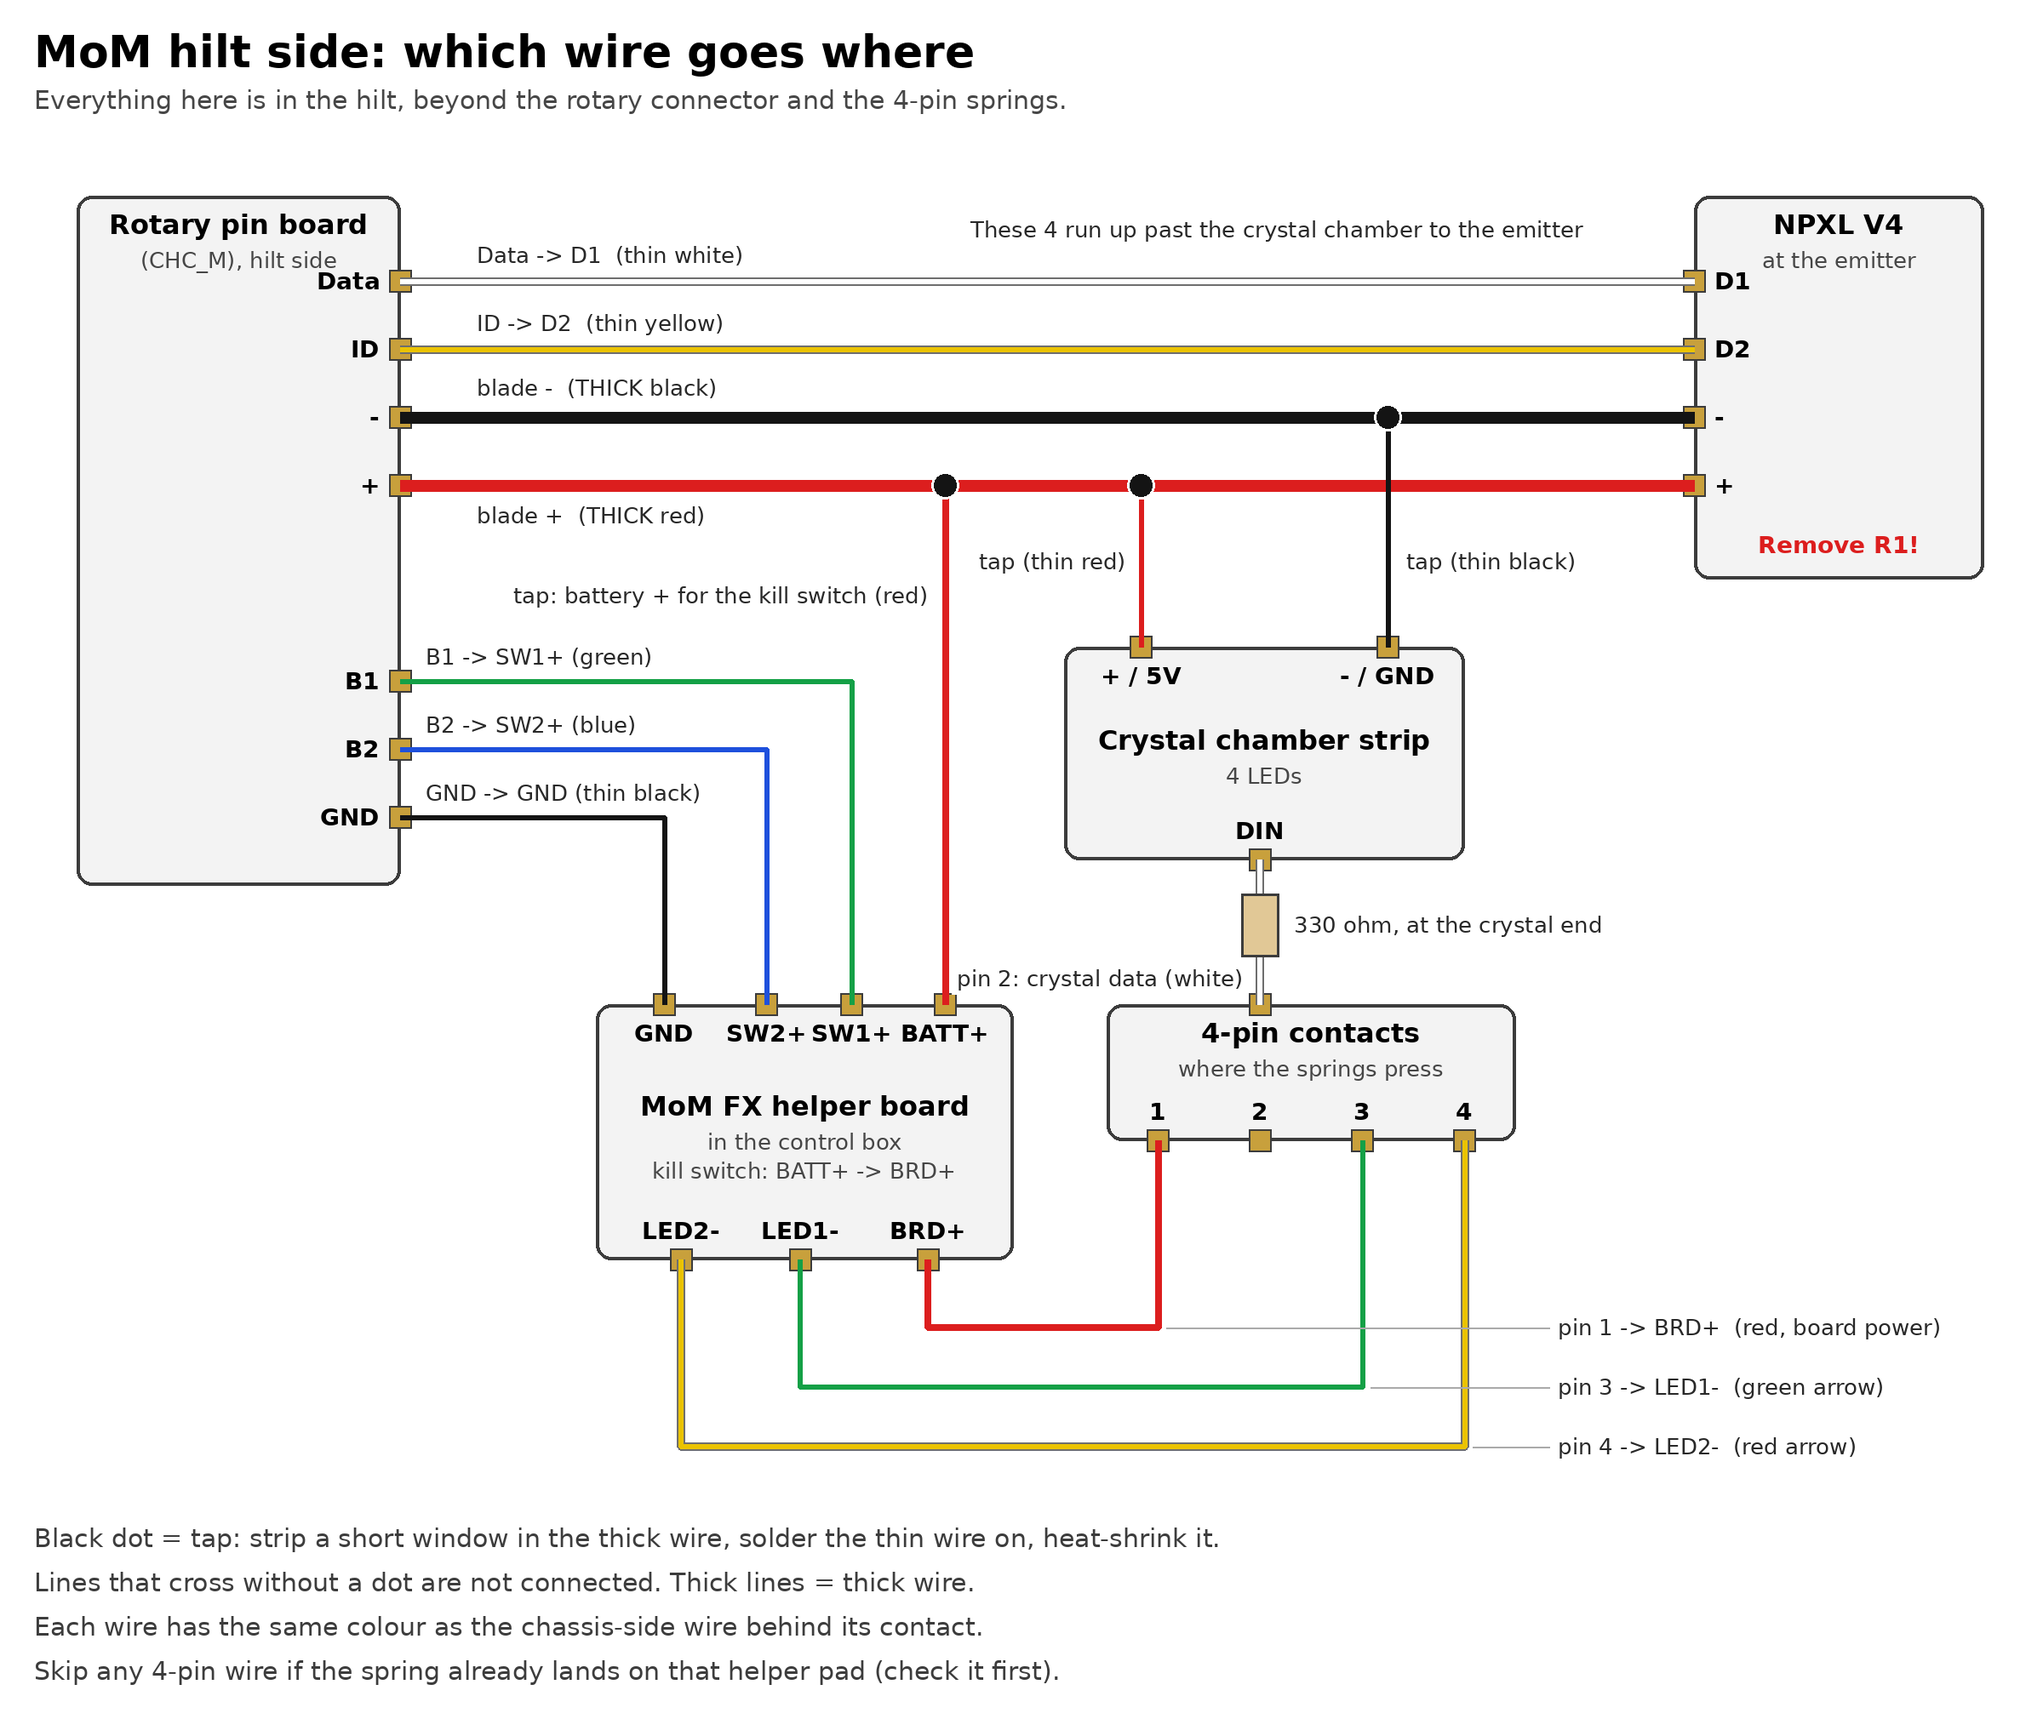
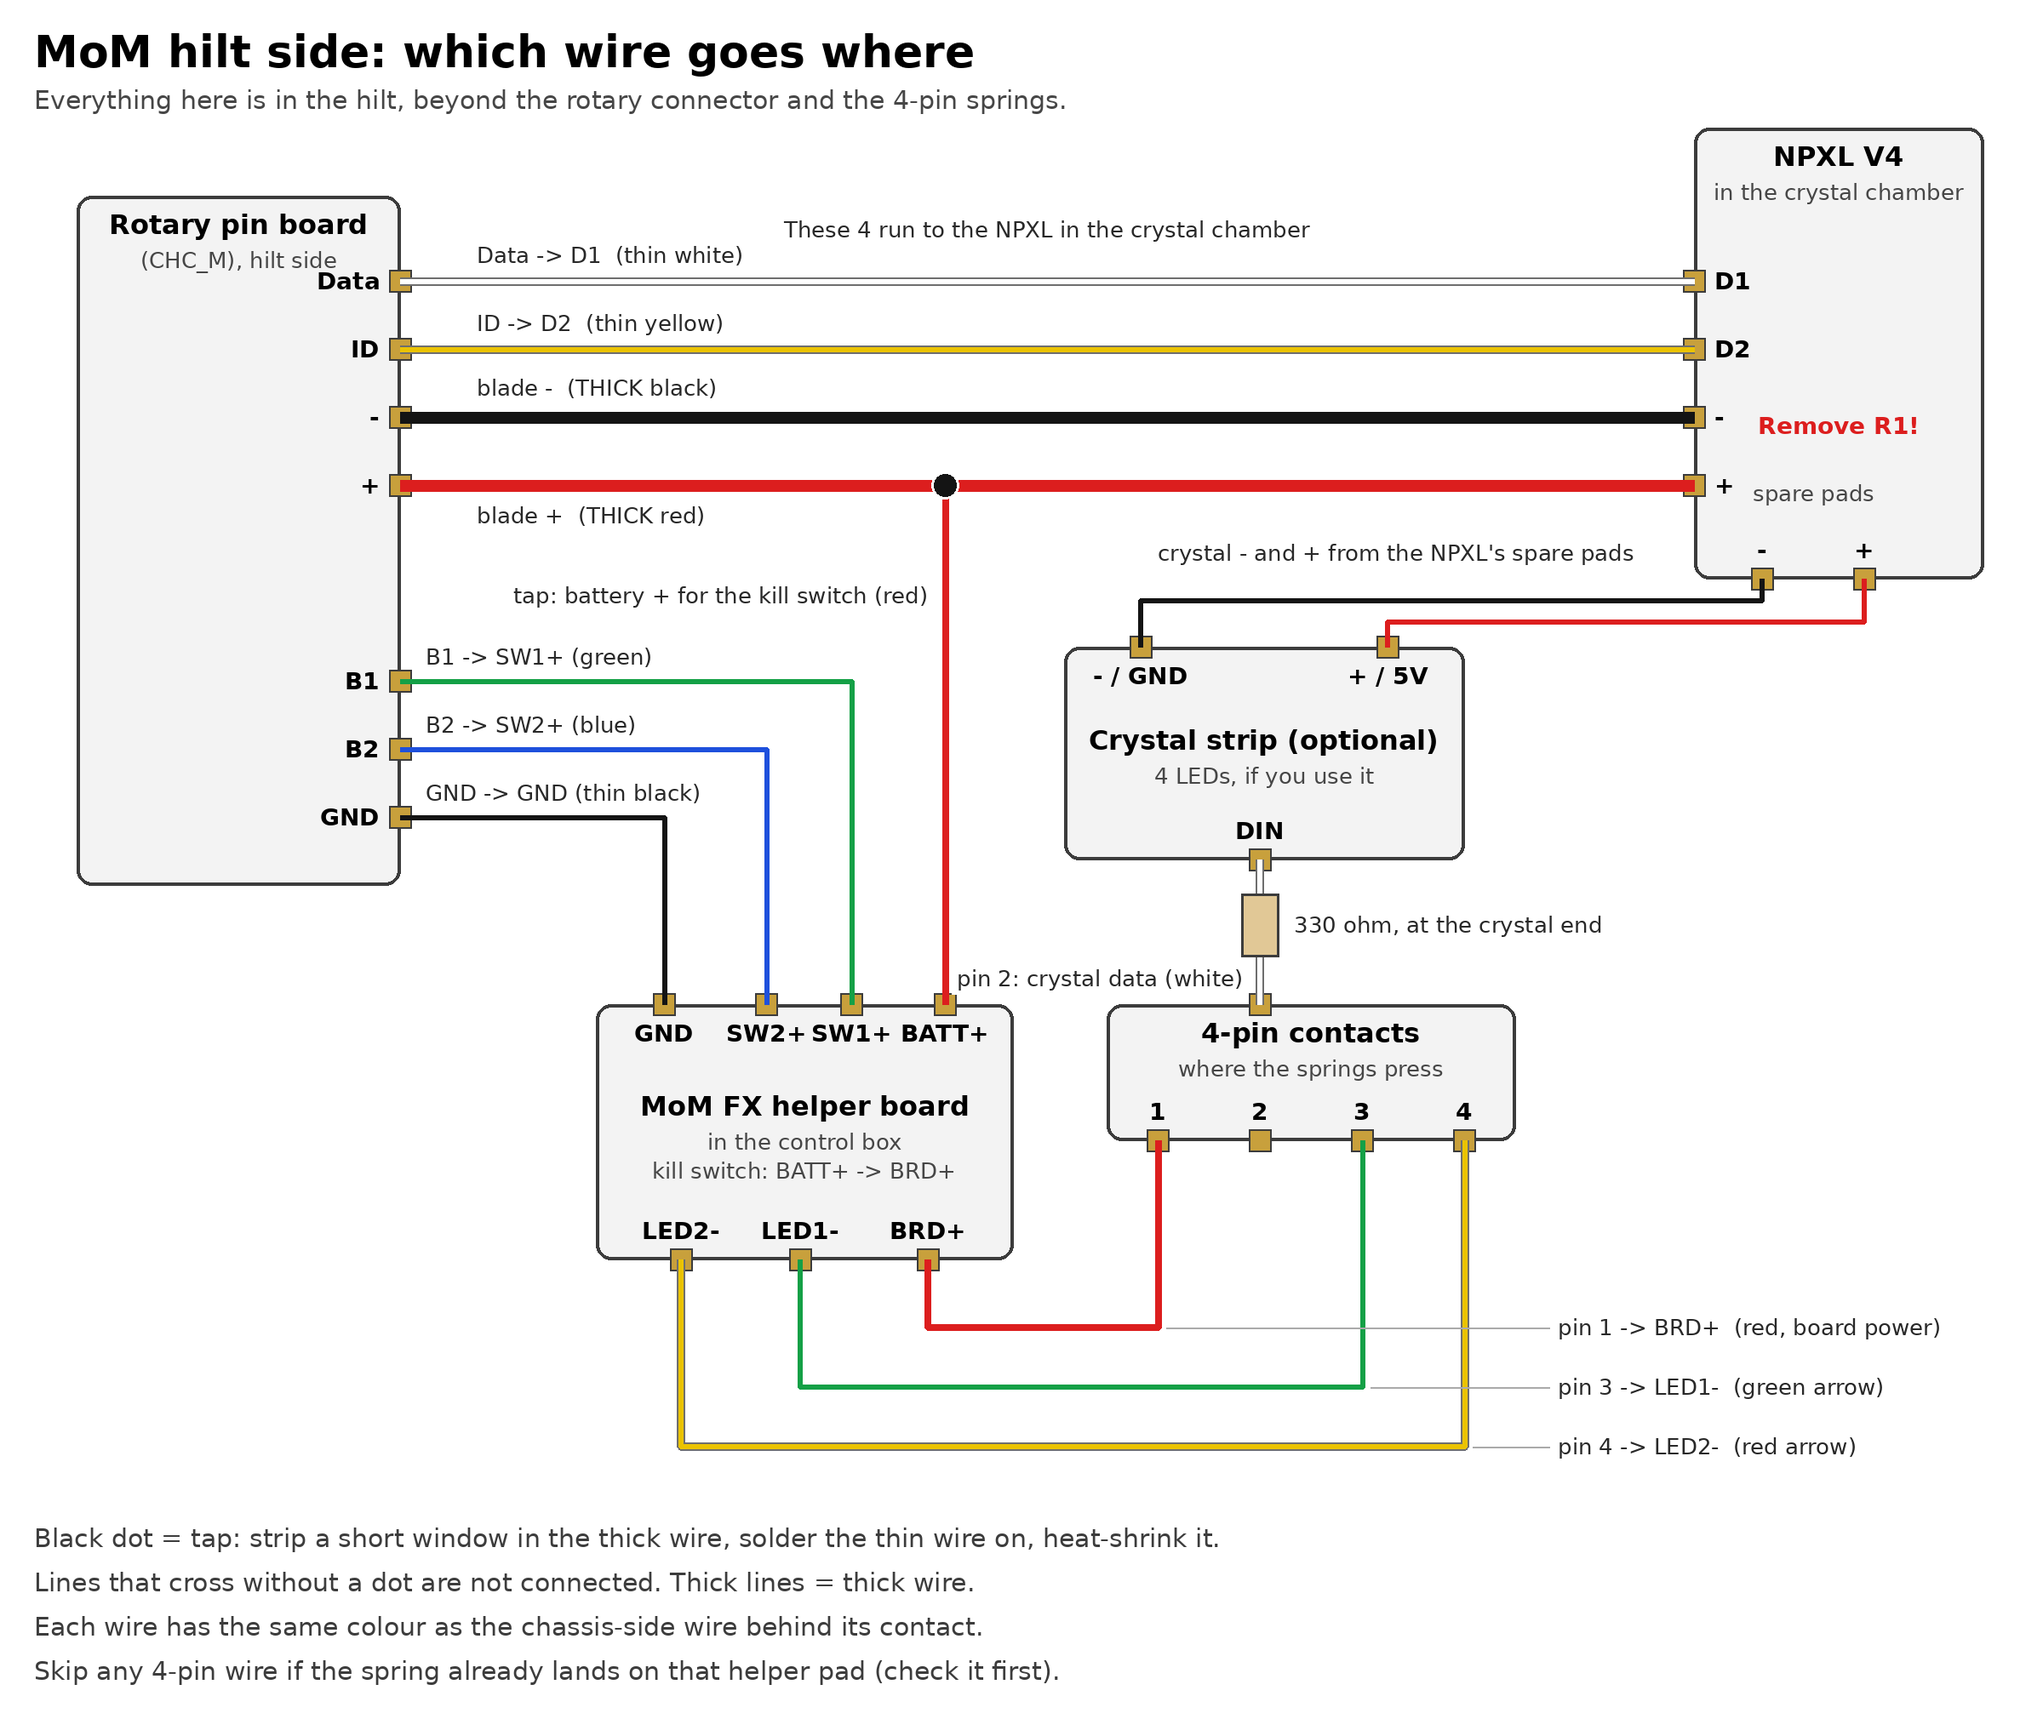
Put the NPXL in the crystal chamber and power the crystal strip from it
The designer's video puts the Shtok lit connector in the crystal chamber,
so the optional crystal strip takes + and - from the NPXL's spare pads
instead of tapping the blade wires. Adds a real-blade bench test.

Claude-Session: https://claude.ai/code/session_01265pwD5zDbVVSh7CxSi4nL

diff --git a/saber-wiring/proffieos/mom_config.h b/saber-wiring/proffieos/mom_config.h
@@ -9,9 +9,9 @@
 //   1. Main blade: 130 pixels on Data1, negative on LED2 + LED3
 //   2. NPXL V4 connector pixels, first half (Data2)
 //   3. NPXL V4 connector pixels, second half (same strip, interleaved)
-//   4. Crystal chamber: 4 pixels on Data3, carried to the hilt on 4-pin
-//      connector pin 2 (330 ohm at the crystal end). Its + and - are tapped
-//      from the blade's + and - lines in the hilt, so it shares LED2 + LED3.
+//   4. Optional crystal strip: 4 pixels on Data3, carried to the hilt on
+//      4-pin connector pin 2 (330 ohm at the crystal end). Its + and - come
+//      from the NPXL's spare pads, so it shares LED2 + LED3.
 //   5. Control box green light, on LED5
 //   6. Control box red light, on LED6
 //

diff --git a/saber-wiring/README.md b/saber-wiring/README.md
@@ -66,7 +66,7 @@ Not from this order:
 - [Ronin Sabers: 7even Chambers MoM Gen 2 Neopixel Install](https://www.youtube.com/watch?v=9AR8ZAMefGs)
 - [BRrogers: FX reveal board assembly](https://www.therpf.com/forums/threads/fx-reveal-board-assembly-for-fx-mom-cave-hero.339167) (helper board and reveal board, RPF)
 
-Layout, from the designer's photos, starting at the pommel: pommel → body with the control box (the removable core with board, battery and speaker goes in here) → crystal chamber → black grip → copper section → emitter with the NPXL connector. The blade wires (+, −, Data1, Data2) run up from the rotary connector past the crystal chamber to the NPXL. The NPXL's 16 LEDs light the blade plug at the emitter. The crystal is lit by the mini strip, or by the crystal chamber's own LEDs if it came with some.
+Layout: the removable chassis (board, battery and speaker) slides into the body, beside the control box with the helper board. It comes all the way out, so every wire from the Proffieboard ends at the chassis end: on the rotary ring board, the 4-pin connector, the battery contacts, the speaker or the Bluetooth board. In the designer's video, the Shtok lit connector (NPXL) goes in the **crystal chamber**, in a holder made of a copper ring and a black ring that fit into each other. Its 16 LEDs light the chamber. The blade wires (+, −, Data1, Data2) run from the rotary connector to the NPXL. The 4-LED mini strip is an optional extra light for the crystal.
 
 ## Configurator settings
 
@@ -104,7 +104,7 @@ Use **thick** wire only where the blade's current flows: the battery in and out,
 | **Data1** | Thin | Rotary **Data** → NPXL **D1** (blade) | Data1 has a 470 Ω resistor built in, so no extra resistor |
 | **Data2** | Thin | Rotary **ID** → NPXL **D2** (connector's 16 LEDs) | The NPXL has its own 330 Ω (R2) on D2 |
 | **Data3** | Thin | 4-pin connector **pin 2** → (hilt side) **330 Ω resistor** → crystal **DIN** | Data2–4 have no built-in resistor, so the 330 Ω goes in at the crystal end. If you already put it on the chassis side of this wire, leave it there and don't add a second |
-| **LED1** | None | Spare, not used | If you already soldered a wire here, tape its end and tuck it away. The crystal's − now comes from the blade − line in the hilt |
+| **LED1** | None | Spare, not used | If you already soldered a wire here, tape its end and tuck it away. The crystal strip's − now comes from the NPXL's spare − pad |
 | **BT1** | Thin | Rotary **B1** → helper **SW1+** (power) | |
 | **BT2** | Thin | Rotary **B2** → helper **SW2+** (aux) | |
 | **RX** | Thin | BT909 **TX** | TX and RX cross over |
@@ -115,7 +115,7 @@ Use **thick** wire only where the blade's current flows: the battery in and out,
 
 One + wire doesn't go on the Proffieboard at all: **blade +** (thick) is soldered at the **battery's + contact** and runs to rotary **+** → NPXL **+**. Shtok's rotary diagram feeds the blade + straight from the battery the same way.
 
-In the hilt, two things tap that blade + wire: the kill switch's battery feed (helper **BATT+**) and the crystal's **+**. The crystal's **−** taps the blade − wire the same way. See [Hilt side: step by step](#hilt-side-step-by-step).
+In the hilt, the kill switch's battery feed (helper **BATT+**) taps that blade + wire. The crystal strip, if you use one, takes its + and − from the NPXL's spare + and − pads. See [Hilt side: step by step](#hilt-side-step-by-step).
 
 Keep blade + on the battery side, before the kill switch. Small slide switches like the ones in this order are rated around 3 A or less, and the blade can draw more than that. Wired this way, the switch only carries the board's own current. The blade still goes dark when the switch is off: blade − runs through the board's LED2/LED3 switches, and Hubbe's V3 page notes those have pull-down resistors that turn them off when the board has no power.
 
@@ -233,8 +233,8 @@ The config already drives LED1 and LED2 as two plain LEDs on LED5 and LED6 (blad
 
 None of the install videos show this wiring, so it's worked out from the parts' pinouts and the chassis designer's notes. The hilt side has three groups of wires:
 
-- **Up past the crystal chamber to the emitter: 4 wires.** Blade + and − (thick), Data and ID (thin), from the rotary pin board to the NPXL. Nothing else goes above the crystal chamber.
-- **At the crystal chamber: 3 wires.** + and − tapped off the blade + and − wires as they pass, and data from 4-pin pin 2.
+- **To the NPXL in the crystal chamber: 4 wires.** Blade + and − (thick), Data and ID (thin), from the rotary pin board.
+- **Crystal strip, if you use one: 3 wires.** + and − from the NPXL's spare + and − pads (it has more than one of each), and data from 4-pin pin 2. The NPXL's own 16 LEDs may light the chamber well enough; the bench test will show. Without the strip, leave pin 2 empty. The config doesn't need changing.
 - **At the helper board in the control box:** the buttons (B1, B2 and GND from the rotary pin board), battery + for the kill switch (a tap off blade +) and the 4-pin contacts.
 
 ![Hilt-side wiring](out/mom/hilt-wiring.png)
@@ -249,9 +249,9 @@ None of the install videos show this wiring, so it's worked out from the parts' 
 | Rotary pin board **B2** | Helper **SW2+** | Thin | Blue |
 | Rotary pin board **GND** | Helper **GND** | Thin | Black |
 | Tap on blade + | Helper **BATT+** (kill switch in) | Thin will do; thick if it fits | Red |
-| Tap on blade + | Crystal **+ / 5V** | Thin | Red |
-| Tap on blade − | Crystal **− / GND** | Thin | Black |
-| 4-pin **pin 2** contact | **330 Ω** → crystal **DIN** | Thin | White |
+| NPXL spare **+** pad | Crystal **+ / 5V** (optional) | Thin | Red |
+| NPXL spare **−** pad | Crystal **− / GND** (optional) | Thin | Black |
+| 4-pin **pin 2** contact | **330 Ω** → crystal **DIN** (optional) | Thin | White |
 | 4-pin **pin 1** contact | Helper **BRD+** (kill switch out) | Thin will do; thick if it fits | Red |
 | 4-pin **pin 3** contact | Helper **LED1−** | Thin | Green |
 | 4-pin **pin 4** contact | Helper **LED2−** | Thin | Yellow |
@@ -260,16 +260,13 @@ Each wire has the same colour as the chassis-side wire behind its contact, so a 
 
 1. **Find where the 4-pin springs land.** Fit the chassis and see what the four springs press on in the hilt. If they land on helper board pads, those pads set the pin order: the spring on **BRD+** is pin 1 and gets the red BATT+ wire on the chassis side, and so on. If they land on blank contacts, you pick the order; keep the colours as in the tables. With the multimeter on beep, also test each landing spot against the helper's pads. Any that's already joined to its pad (pin 1 → BRD+, pin 3 → LED1−, pin 4 → LED2−) needs no wire in step 7. Pin 2 may land on DATA1 or DATA2 (helper check 4).
 2. **NPXL:** remove **R1**. Leave R2.
-3. **Blade wires.** Cut the four wires (+, −, Data, ID) to run from the rotary pin board to the NPXL with a little slack. Before soldering the thick ones, slide on heat shrink for the taps: two pieces on the red (crystal + and kill switch), one on the black (crystal −). Then solder: + → +, − → −, Data → D1, ID → D2.
+3. **Blade wires.** Cut the four wires (+, −, Data, ID) to run from the rotary pin board to the NPXL with a little slack. Before soldering the red one, slide on a piece of heat shrink for the kill-switch tap. Then solder: + → +, − → −, Data → D1, ID → D2.
 4. **Buttons.** Rotary pin board B1 → SW1+, B2 → SW2+, GND → GND. Short thin wires.
-5. **Taps.** Where a tap goes, score round the thick wire's insulation twice about 5 mm apart, slit between the cuts and peel that piece off. Wrap the thin wire's tinned end once round the bare strands, solder, then slide the heat shrink over and shrink it.
-   - Blade + → crystal + (thin red) and blade − → crystal − (thin black), where the wires pass the crystal chamber.
-   - Blade + → helper BATT+ (red), near the control box. If the rotary pin board's + pad has room, you can instead lay this wire alongside the thick one on that pad.
-   - The crystal's − goes on the blade − wire, not the helper's GND. The board switches blade − off with the blade, so the crystal goes fully dark. On GND, its four LEDs would draw a few mA all the time, even with the kill switch off.
-6. **Crystal data.** Run the white wire from the 4-pin pin 2 contact (or the DATA pad it lands on) to the crystal. Stop about 1 cm short of DIN, solder the 330 Ω in line there, add a short stub to DIN and heat-shrink over the resistor. Use the strip's DIN end, where the arrows point away from the wire.
+5. **Kill-switch tap.** The helper's BATT+ needs battery +, from the blade + wire. If the rotary pin board's + pad has room, lay this red wire alongside the thick one on that pad. Otherwise tap the thick wire near the control box: score round its insulation twice about 5 mm apart, slit between the cuts and peel that piece off. Wrap the red wire's tinned end once round the bare strands, solder, then slide the heat shrink over and shrink it.
+6. **Crystal strip (optional).** Solder its + and − to the NPXL's spare + and − pads. Its − must go on the NPXL's −, not the helper's GND. The board switches the blade's − off with the blade, so the strip goes fully dark. On GND, its four LEDs would draw a few mA all the time, even with the kill switch off. For data, run the white wire from the 4-pin pin 2 contact (or the DATA pad it lands on) to the crystal. Stop about 1 cm short of DIN, solder the 330 Ω in line there, add a short stub to DIN and heat-shrink over the resistor. Use the strip's DIN end, where the arrows point away from the wire.
 7. **4-pin contacts to the helper**, unless step 1 showed they're already joined: pin 1 → BRD+, pin 3 → LED1−, pin 4 → LED2−.
 8. **Multimeter checks, battery out.**
-   - Should beep: rotary pin board + ↔ NPXL +, − ↔ −, Data ↔ D1, ID ↔ D2. Crystal + ↔ blade +, crystal − ↔ blade −.
+   - Should beep: rotary pin board + ↔ NPXL +, − ↔ −, Data ↔ D1, ID ↔ D2. Crystal strip + ↔ NPXL +, − ↔ −.
    - Must not beep: blade + ↔ blade −, and helper BATT+ ↔ helper GND.
    - Kill switch off: helper BATT+ ↔ BRD+ silent. On: it beeps.
 9. **First power-up.** Kill switch off, battery in, chassis in, then switch on: you should hear the boot sound. Ignite. The blade, the NPXL's LEDs, the crystal and both arrow lights should come on.
@@ -293,7 +290,7 @@ Each wire has the same colour as the chassis-side wire behind its contact, so a 
 | --- | --- | --- |
 | 1 | Main blade, 130 pixels | Data1, LED2 + LED3 |
 | 2–3 | NPXL V4 connector's 16 pixels, as two interleaved halves (how the configurator handles an Illuminated PCB) | Data2, LED2 + LED3 |
-| 4 | Crystal chamber, 4 pixels | Data3 via 4-pin pin 2 and a 330 Ω; LED2 + LED3 (its − taps the blade − wire) |
+| 4 | Optional crystal strip, 4 pixels | Data3 via 4-pin pin 2 and a 330 Ω; LED2 + LED3 (its − is on the NPXL's spare − pad) |
 | 5 | Control box green light | LED5 |
 | 6 | Control box red light | LED6 |
 
@@ -320,7 +317,8 @@ Before flashing:
    - Connect the Bluetooth board and look for it on your phone.
 5. **Bench test on the battery:**
    - Board power comes back through the kill switch in the hilt, so until the hilt is wired, temporarily connect the red BATT+ wire (pad 4) to the battery's + contact. That stands in for the switch.
-   - Use 6–8 leftover LEDs from the mini strip as a test blade: + to the blade + wire, − to pad 9's thick wire, DIN to Data1.
+   - Test the real NPXL and blade. Remove R1 from the NPXL first. Then clip or tack the NPXL's **+** to the battery's +, **−** to pad 9's thick black wire, **D1** to Data1 (white) and **D2** to Data2 (yellow), and plug the blade in. This also shows how well the NPXL's 16 LEDs light the crystal chamber, which tells you whether you need the mini strip.
+   - No NPXL handy? Use 6–8 leftover mini-strip LEDs as a test blade: + to battery +, − to pad 9's thick wire, DIN to Data1.
    - Always connect the battery the right way round. Neopixels can fry if it's reversed.
 6. **Then the connectors and far ends:**
    - Chassis side: the rotary ring board, the 4-pin connector, the battery contacts, the speaker and the Bluetooth board.
